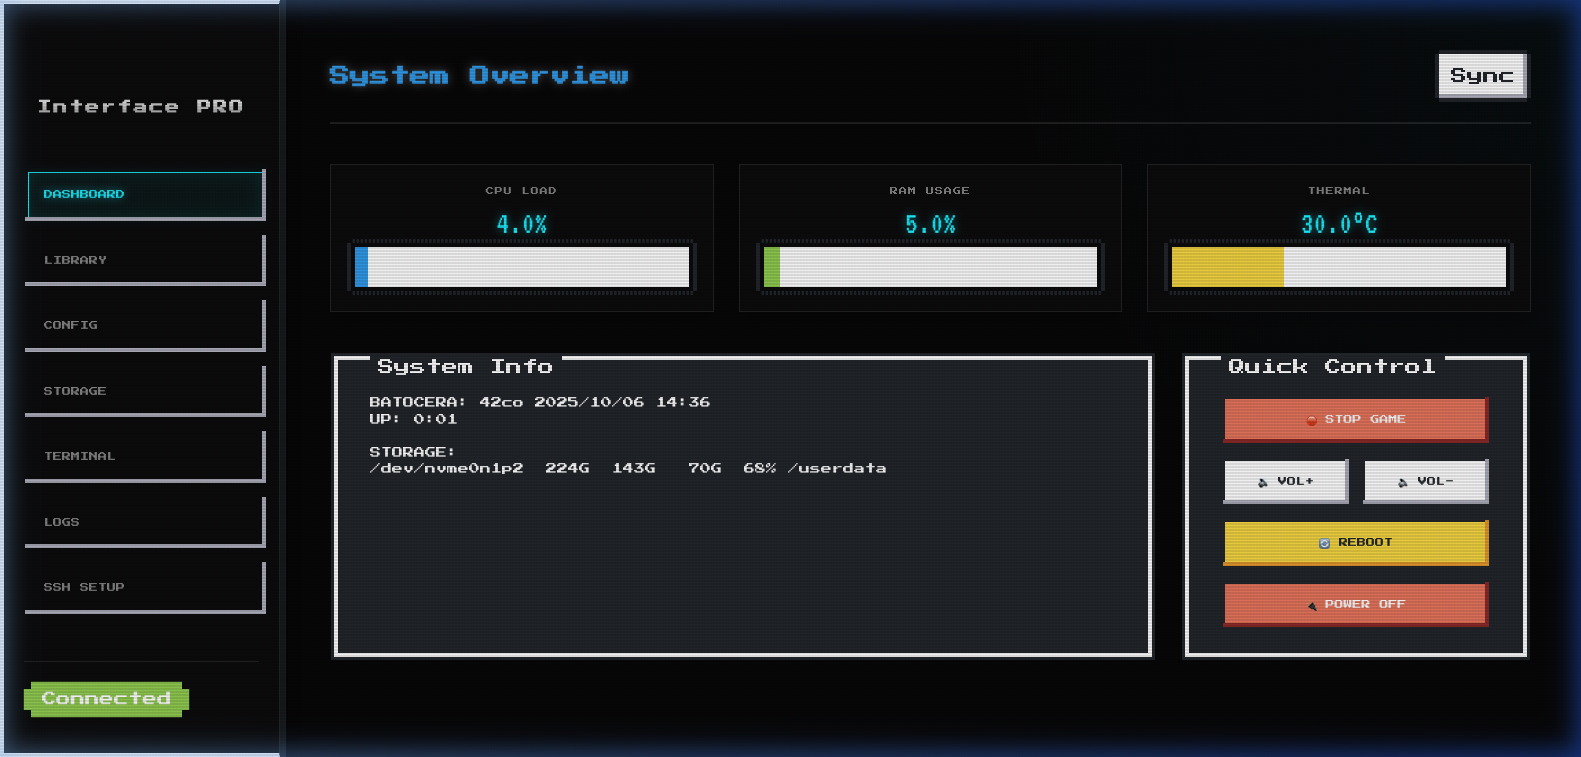
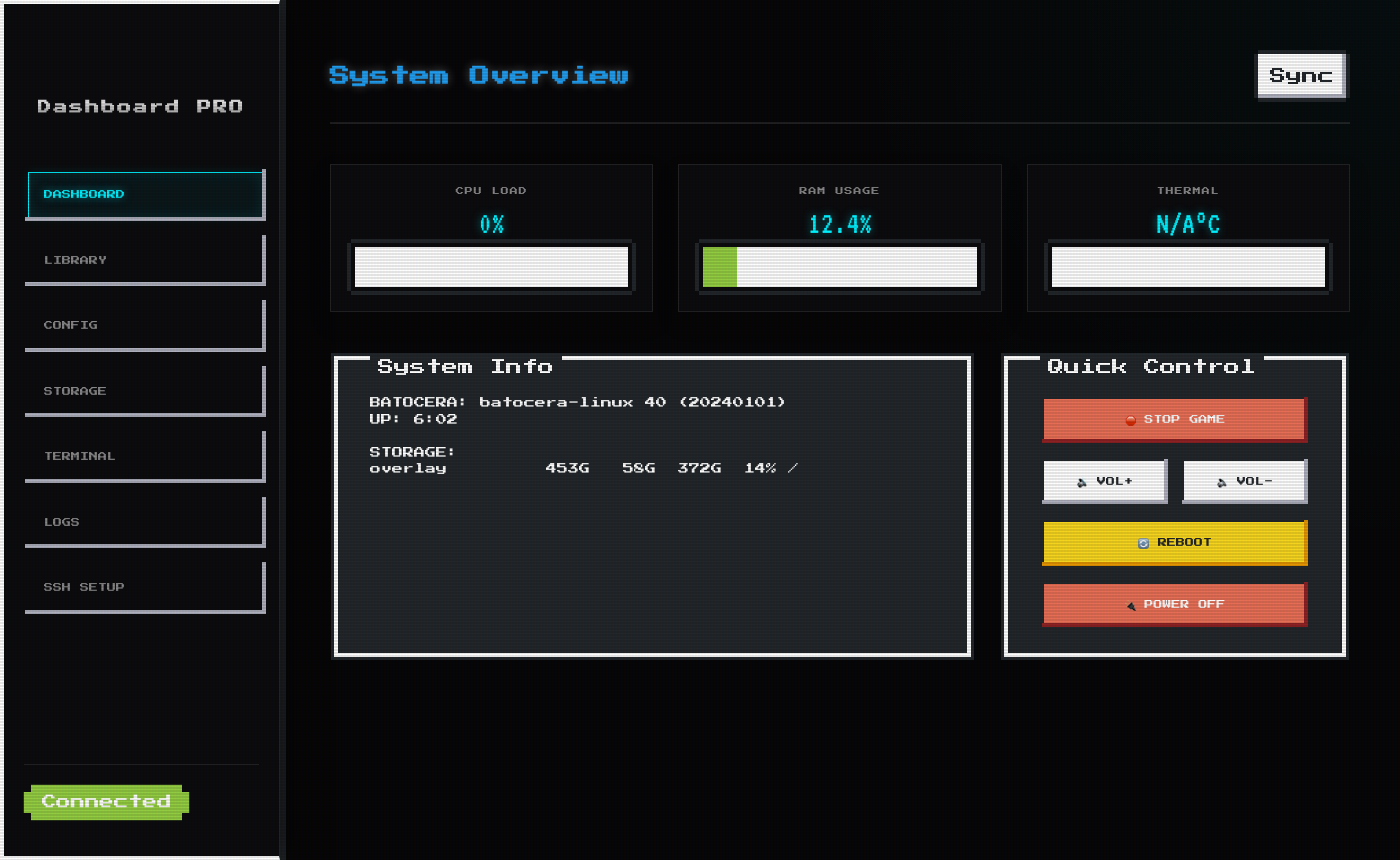
docs: add real screenshots (dashboard, library, modal, files, terminal, mobile)

diff --git a/tests/e2e/take_screenshots.js b/tests/e2e/take_screenshots.js
@@ -1,0 +1,71 @@
+const { chromium } = require('@playwright/test');
+const path = require('path');
+
+const OUT = path.resolve(__dirname, '../../screenshots');
+
+async function shot(page, name) {
+  await page.screenshot({ path: `${OUT}/${name}.png`, fullPage: false });
+  console.log(`  ✓ ${name}.png`);
+}
+
+(async () => {
+  const browser = await chromium.launch();
+  const ctx = await browser.newContext({ viewport: { width: 1400, height: 860 } });
+  const page = await ctx.newPage();
+
+  console.log('Taking screenshots of Remote Dashboard (http://localhost:8091)...');
+
+  // Dashboard
+  await page.goto('http://localhost:8091/');
+  await page.waitForSelector('#stat-cpu:not(:has-text("—"))', { timeout: 10000 }).catch(() => {});
+  await page.waitForSelector('#sysinfo', { timeout: 8000 });
+  await page.waitForTimeout(1500);
+  await shot(page, 'dashboard');
+
+  // Library
+  await page.click('[data-view="roms"]');
+  await page.waitForSelector('#rom-list .rom-card', { timeout: 15000 });
+  await page.waitForTimeout(600);
+  await shot(page, 'library');
+
+  // ROM modal
+  await page.locator('#rom-list .rom-card').first().click();
+  await page.waitForSelector('#game-modal[open]', { timeout: 3000 });
+  await shot(page, 'rom-modal');
+  await page.keyboard.press('Escape');
+
+  // File Manager
+  await page.click('[data-view="files"]');
+  await page.waitForSelector('#file-list .file-item', { timeout: 8000 });
+  await page.waitForTimeout(400);
+  await shot(page, 'files');
+
+  // Terminal
+  await page.click('[data-view="terminal"]');
+  await page.waitForSelector('#terminal-input', { timeout: 3000 });
+  await page.fill('#terminal-input', 'batocera-version');
+  await page.keyboard.press('Enter');
+  await page.waitForTimeout(1000);
+  await shot(page, 'terminal');
+
+  // Config
+  await page.click('[data-view="systems"]');
+  await page.waitForTimeout(800);
+  await shot(page, 'config');
+
+  // Mobile view
+  const mobileCtx = await browser.newContext({
+    viewport: { width: 390, height: 844 },
+    userAgent: 'Mozilla/5.0 (iPhone; CPU iPhone OS 16_0 like Mac OS X) AppleWebKit/605.1.15',
+    isMobile: true,
+  });
+  const mobile = await mobileCtx.newPage();
+  await mobile.goto('http://localhost:8091/');
+  await mobile.waitForSelector('#stat-cpu', { timeout: 10000 });
+  await mobile.waitForTimeout(1500);
+  await mobile.screenshot({ path: `${OUT}/mobile.png`, fullPage: false });
+  console.log('  ✓ mobile.png');
+
+  await browser.close();
+  console.log('\nAll screenshots saved to screenshots/');
+})();

diff --git a/README.md b/README.md
@@ -51,17 +51,20 @@ Batocera Web Dashboard PRO is a browser-based control panel you can run **alongs
 ## Screenshots
 
 <p align="center">
-  <img src="screenshots/dashboard.png" width="45%" alt="Dashboard Overview">
+  <img src="screenshots/dashboard.png" width="48%" alt="Dashboard — live CPU/RAM/Temp stats">
   &nbsp;
-  <img src="screenshots/library.png" width="45%" alt="ROM Library">
+  <img src="screenshots/library.png" width="48%" alt="ROM Library with cover art and metadata">
 </p>
 <p align="center">
-  <img src="screenshots/files.png" width="45%" alt="File Manager">
+  <img src="screenshots/rom-modal.png" width="48%" alt="Game detail — developer, description, year">
   &nbsp;
-  <img src="screenshots/terminal.png" width="45%" alt="Terminal">
+  <img src="screenshots/files.png" width="48%" alt="File Manager — browse, upload, download">
 </p>
-
-> **Want to add your own screenshots?** Drop PNG files in `screenshots/` and open a PR.
+<p align="center">
+  <img src="screenshots/terminal.png" width="48%" alt="Built-in terminal with command security">
+  &nbsp;
+  <img src="screenshots/mobile.png" width="20%" alt="Mobile view on iPhone">
+</p>
 
 ---
 
